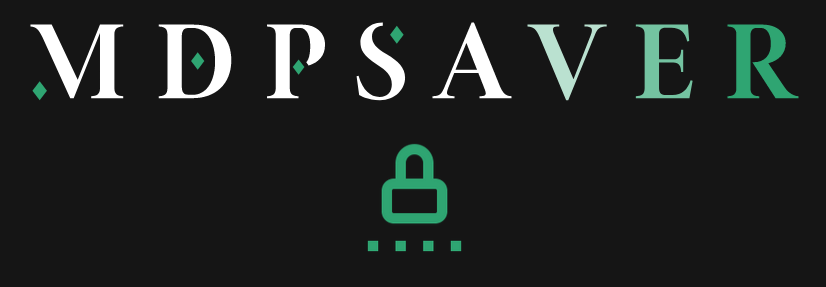
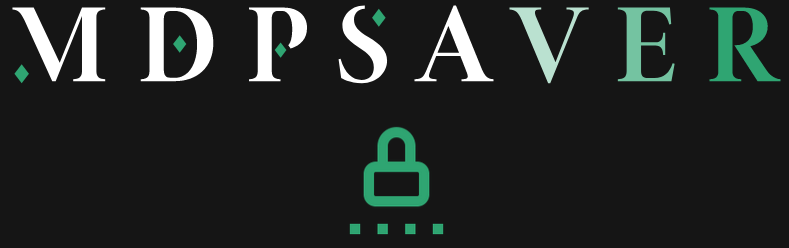
FE: Login page finished

diff --git a/GUI/MDPStyle/login.css b/GUI/MDPStyle/login.css
@@ -1,0 +1,83 @@
+/* styles.css */
+
+/* Window */
+QMainWindow {
+    background-color: #151515;
+}
+
+QLabel {
+    color: white;
+}
+
+/* Title Label */
+QLabel#title {
+    font-size: 24px;
+    margin-top: 10px;
+    margin-bottom: 8px;
+    font-weight: bold;
+    text-decoration: underline;
+    color: #2fa572;
+}
+
+/* Login Button */
+QPushButton#loginButton {
+    color: #FFFFFF;
+    background-color: #2fa572;
+    padding: 10px 20px;
+    font-size: 16px;
+    font-weight: bold;
+    border: none;
+    border-radius: 5px;
+    margin-top: 10px;
+}
+
+/* Login Button Hover Effect */
+QPushButton#loginButton:hover {
+    background-color: #35b57e;
+}
+
+/* Vertical Line */
+QFrame#line {
+    background-color: #303030;
+    margin-top: 20px;
+    margin-bottom: 20px;
+}
+
+/* Forgot Password Link */
+QLabel#forgotPasswordLabel {
+    color: #428BCA;
+    font-size: 12px;
+    text-decoration: underline;
+    margin-bottom: 25px;
+}
+
+QLabel#forgotPasswordLabel:hover {
+    color: #4491d5;
+}
+
+QGraphicsView {
+    background-color: #151515;
+}
+
+QGraphicsScene#userScene {
+    width: 40px;
+    height: 40px;
+}
+
+
+QMessageBox{
+    background-color: #151515;
+}
+
+QPushButton#forgotPassword {
+    color: #428BCA;
+    font-size: 12px;
+    border: 0px;
+    background-color: #151515;
+    
+}
+
+QPushButton#forgotPassword:hover {
+    color: #65aceb;
+    text-decoration: underline;
+}

diff --git a/GUI/utils/utils.css b/GUI/utils/utils.css
@@ -1,0 +1,9 @@
+QPushButton {
+    background-color: white;
+    border: 0px;
+}
+
+QLineEdit {
+    background-color: white;
+    border: 0px;
+}

diff --git a/GUI/login.py b/GUI/login.py
@@ -1,44 +1,157 @@
-from PySide6.QtWidgets import QDialog, QVBoxLayout, QLabel, QLineEdit, QPushButton, QMessageBox
-from PySide6.QtCore import Signal
+import sys
+from utils.PasswordPromp import PasswordPrompt
+from PySide6.QtCore import Qt, Signal
+from PySide6.QtGui import QPixmap, QCursor, QTransform
+from PySide6.QtWidgets import QApplication, QMainWindow, QLabel, QPushButton, QVBoxLayout, QHBoxLayout, QWidget, QFrame, QGraphicsView, QGraphicsScene, QSizePolicy, QMessageBox
 from controller import Controller
 
-class LoginWindow(QDialog):
+class LoginWindow(QMainWindow):
     successful_login = Signal()
     recovery_login = Signal()
-
+    
     def __init__(self, controller: Controller, parent=None):
 
         self.controller = controller
+
+        super().__init__()
+        self.setWindowTitle("Login Page")
         
-        super(LoginWindow, self).__init__(parent)
+        self.setStyleSheet(open("MDPStyle/login.css").read())
 
-        self.setWindowTitle("Login")
+        self.setWindowFlags(Qt.Window | Qt.WindowCloseButtonHint | Qt.WindowMinimizeButtonHint)
 
-        layout = QVBoxLayout()
+        central_widget = QWidget(self)
+        self.setCentralWidget(central_widget)
 
-        self.username_label = QLabel(f"{controller.get_username()}")
-        layout.addWidget(self.username_label)
+        # Set fixed size for the login page
+        central_widget.setFixedSize(700, 250)
 
-        self.password_label = QLabel("Password")
-        self.password_input = QLineEdit()
-        self.password_input.setEchoMode(QLineEdit.Password)
-        layout.addWidget(self.password_label)
-        layout.addWidget(self.password_input)
+        main_layout = QHBoxLayout(central_widget)
+        main_layout.setContentsMargins(10, 0, 10, 0)
+        main_layout.setAlignment(Qt.AlignCenter)
 
-        self.login_button = QPushButton("Login")
-        layout.addWidget(self.login_button)
 
-        self.login_button.clicked.connect(self.check_login)
 
-        self.help_button = QPushButton("Forgot Password?")
-        self.help_button.clicked.connect(self.recovery)
+        ## /////////// Left Part: Image ///////////
 
-        layout.addWidget(self.help_button)
+        left_layout = QVBoxLayout()
+        left_layout.setContentsMargins(0, 0, 0, 0)
 
-        self.setLayout(layout)
+        # Create a QGraphicsView instance for the logo
+        graphics_logo = QGraphicsView()
+
+        # Create a QGraphicsScene instance for the logo
+        logo_scene = QGraphicsScene()
+        graphics_logo.setScene(logo_scene)
+
+        # Load an image
+        logo_path = "MDPStyle/MDPSaver.png"
+        pixmap = QPixmap(logo_path)
+
+        # Create a QGraphicsPixmapItem and add it to the scene
+        logo_scene.addPixmap(pixmap)
+
+        # Use a transform to scale down the view
+        transform_logo = QTransform()
+        transform_logo.scale(0.45, 0.45)  # This will make the view half the original size
+        graphics_logo.setTransform(transform_logo)
+        graphics_logo.show()
+
+        # Create a layout to hold the QGraphicsView (Left Part)
+        left_layout.addWidget(graphics_logo)
+
+
+
+        ## /////////// Right Part: Login Form ///////////
+
+        right_layout = QVBoxLayout()
+        right_layout.setContentsMargins(3, 0, 5, 0)
+
+        # Title Label
+        title_label = QLabel("Login", self)
+        title_label.setAlignment(Qt.AlignCenter)
+        title_label.setObjectName("title")
+        right_layout.addWidget(title_label)
+
+        # User Layout: Scene (image) and Username
+        user_layout = QHBoxLayout()
+        user_layout.setAlignment(Qt.AlignCenter)
+
+        # QGraphicsView contains the scene
+        graphics_user = QGraphicsView()
+        graphics_user.scale(0.1, 0.1)
+        graphics_user.setSizePolicy(QSizePolicy.Fixed, QSizePolicy.Fixed)
+
+        # QGraphicsScene contains the image
+        user_scene = QGraphicsScene()
+        graphics_user.setScene(user_scene)
+
+        # Load the user image
+        user_path = "MDPStyle/user.png"
+        pixmap = QPixmap(user_path)
+        user_scene.addPixmap(pixmap)
+
+        # Use a transform to scale down the view
+        transform_user = QTransform()
+        transform_user.scale(0.1, 0.1)
+        graphics_user.setTransform(transform_user)
+        graphics_user.show()
+
+        user_layout.addWidget(graphics_user)
+
+        # Username Label
+        
+        username_label = QLabel(self.controller.get_username(), self)
+        username_label.setObjectName("usernameLabel")
+
+        user_layout.addWidget(username_label)
+        right_layout.addLayout(user_layout)
+
+
+        # Password Input
+        self.password_input = PasswordPrompt()
+        self.password_input.setObjectName("passwordInput")
+        self.password_input.setPlaceholderText("Password")
+        self.password_input.returnPressed.connect(self.check_login)
+
+        right_layout.addWidget(self.password_input)
+
+        # Login Button
+        login_button = QPushButton("Login", self)
+        login_button.setObjectName("loginButton")
+        login_button.setCursor(QCursor(Qt.PointingHandCursor))
+        login_button.clicked.connect(self.check_login)
+
+        right_layout.addWidget(login_button)
+
+        # Forgot Password Label and Layout
+        forgot_layout = QHBoxLayout()
+
+        forgot_layout.setAlignment(Qt.AlignRight)
+
+        forgot_password = QPushButton(text="Forgot password?")
+        forgot_password.setObjectName("forgotPassword")
+        forgot_password.clicked.connect(self.recovery)
+        forgot_password.setCursor(QCursor(Qt.PointingHandCursor))
+
+        forgot_layout.addWidget(forgot_password)
+
+        right_layout.addLayout(forgot_layout)
+        right_layout.addSpacing(20)
+        
+        ## === Vertical Line ===
+        line = QFrame(self)
+        line.setObjectName("line")
+        line.setFrameShape(QFrame.VLine)
+        line.setFrameShadow(QFrame.Sunken)
+        line.setLineWidth(2)
+
+        ## === Combine Parts ===
+        main_layout.addLayout(left_layout, 3)
+        main_layout.addWidget(line)
+        main_layout.addLayout(right_layout, 2)
 
     def check_login(self):
-        
         if self.controller.check_login(self.password_input.text()): 
             self.controller.load_app(self.password_input.text())
             self.successful_login.emit()
@@ -46,7 +159,9 @@ class LoginWindow(QDialog):
             
         else:
             QMessageBox.warning(self, "Error", "Invalid credentials.")
+            self.password_input.setText("")
 
     def recovery(self):
         self.recovery_login.emit()
         self.close()
+

diff --git a/GUI/utils/PasswordPromp.py b/GUI/utils/PasswordPromp.py
@@ -1,0 +1,71 @@
+import os
+from PySide6.QtCore import QSize
+from PySide6.QtGui import QIcon
+from PySide6.QtWidgets import QWidget, QLineEdit, QPushButton, QHBoxLayout, QSizePolicy
+
+# Get the current directory of the script
+from_dir = os.path.dirname(os.path.abspath(__file__))
+
+# Define file paths
+style_path = os.path.join(from_dir, "utils.css")
+eye_path = os.path.join(from_dir, "eye-regular.svg")
+eye_slash_path = os.path.join(from_dir, "eye-slash-regular.svg")
+
+
+class PasswordPrompt(QWidget):
+    def __init__(self):
+        super(PasswordPrompt, self).__init__()
+
+        # Set the stylesheet for the widget
+        self.setStyleSheet(open(style_path, "r").read())
+
+        # Set up the layout
+        self.hbox = QHBoxLayout()
+        self.hbox.setContentsMargins(0, 0, 0, 0)
+        self.hbox.setSpacing(0)
+        
+        # Create the password input field
+        self.password_input = QLineEdit()
+        self.setFixedHeight(24)
+        self.password_input.setSizePolicy(QSizePolicy.Expanding, QSizePolicy.Expanding)
+        self.password_input.setEchoMode(QLineEdit.Password)
+
+        self.returnPressed = self.password_input.returnPressed
+
+        # Create the eye icon button
+        self.eye_icon = QIcon(eye_path)
+        self.eye_button = QPushButton()
+        self.eye_button.setIcon(self.eye_icon)
+        self.eye_button.setIconSize(QSize(20, 20))
+        self.eye_button.setFixedSize(QSize(24, 24))
+        self.eye_button.setCheckable(True)
+        self.eye_button.clicked.connect(self.toggle_eye)
+
+        # Add the widgets to the layout
+        self.hbox.addWidget(self.password_input)
+        self.hbox.addWidget(self.eye_button)
+
+        # Set the layout for the widget
+        self.setLayout(self.hbox)
+    
+    def setText(self, text):
+        self.password_input.setText(text)
+
+    def toggle_eye(self):
+        # Handle the eye button click event
+        if self.eye_button.isChecked():
+            self.eye_button.setIcon(QIcon(eye_slash_path))
+            self.password_input.setEchoMode(QLineEdit.Normal)
+        else:
+            self.eye_button.setIcon(QIcon(eye_path))
+            self.password_input.setEchoMode(QLineEdit.Password)
+
+        self.password_input.setFocus()
+
+    def text(self):
+        # Return the entered password
+        return self.password_input.text()
+
+    def setPlaceholderText(self, text):
+        # Set the placeholder text for the password input field
+        self.password_input.setPlaceholderText(text)
